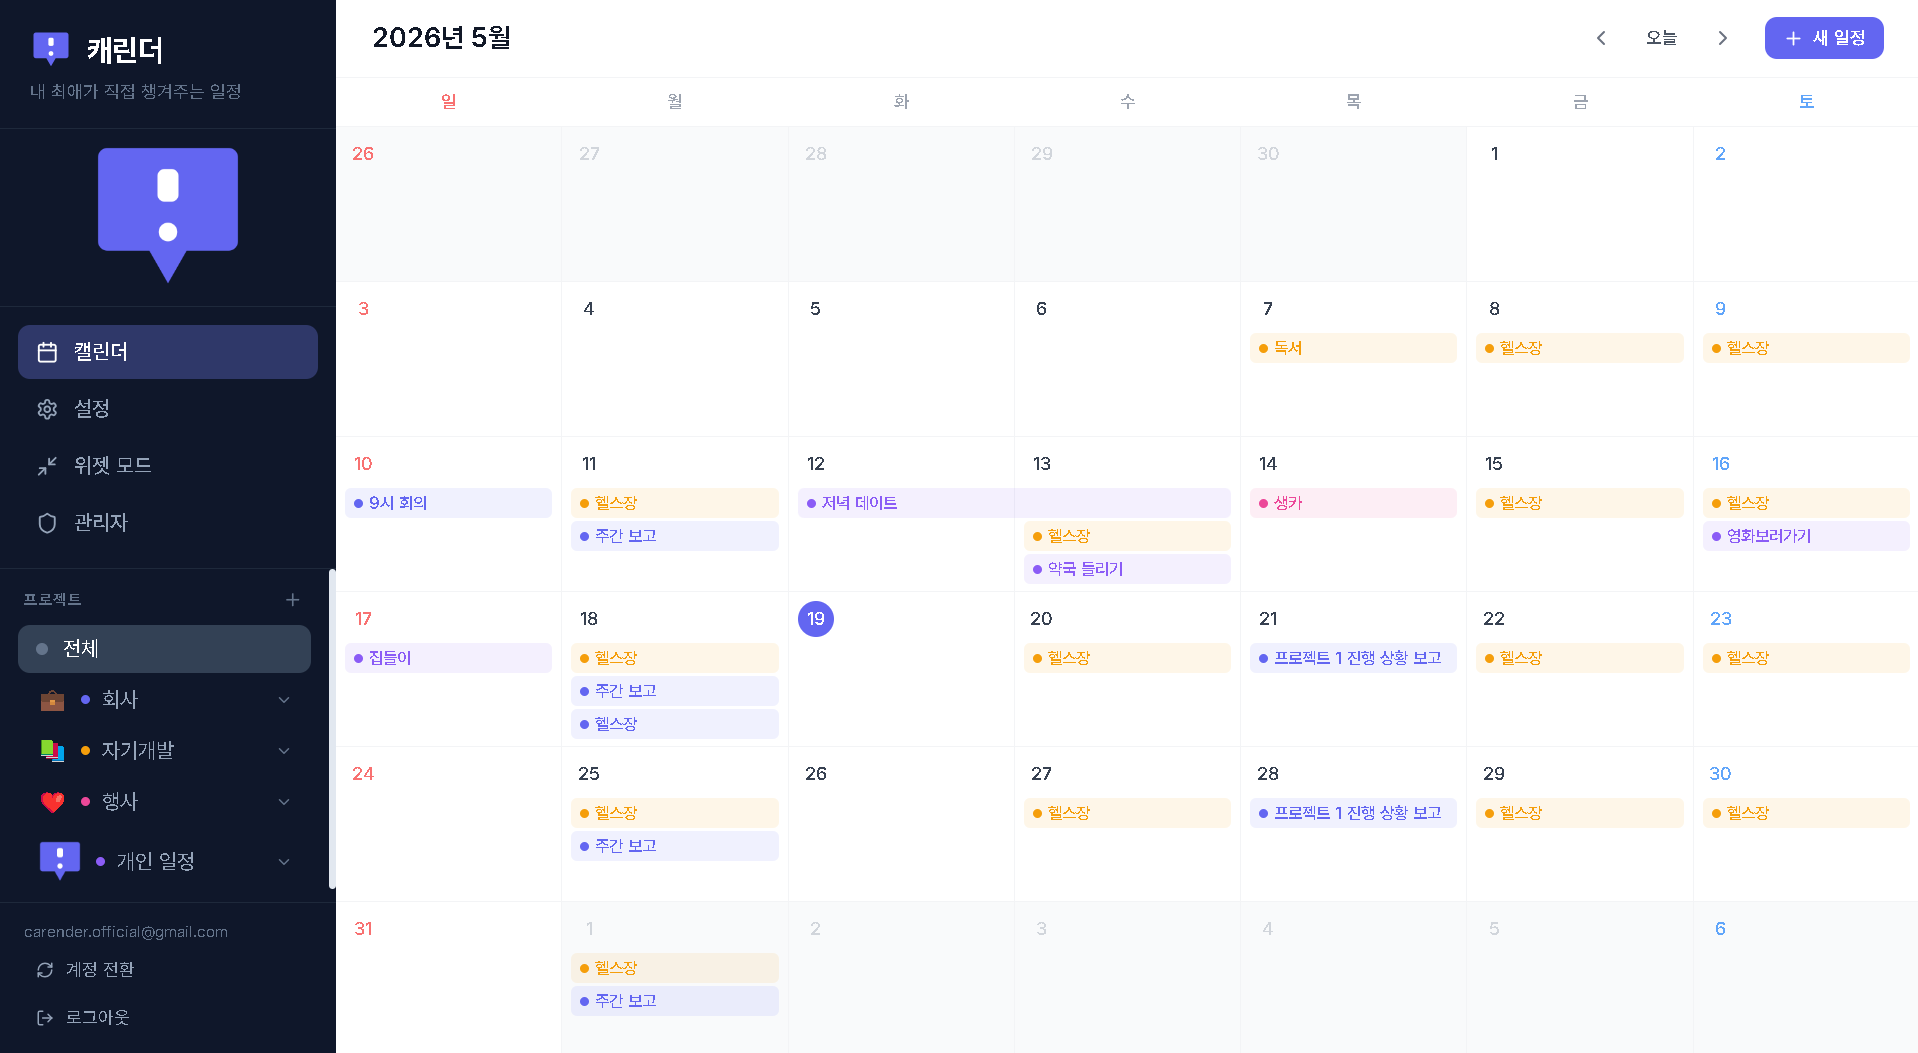
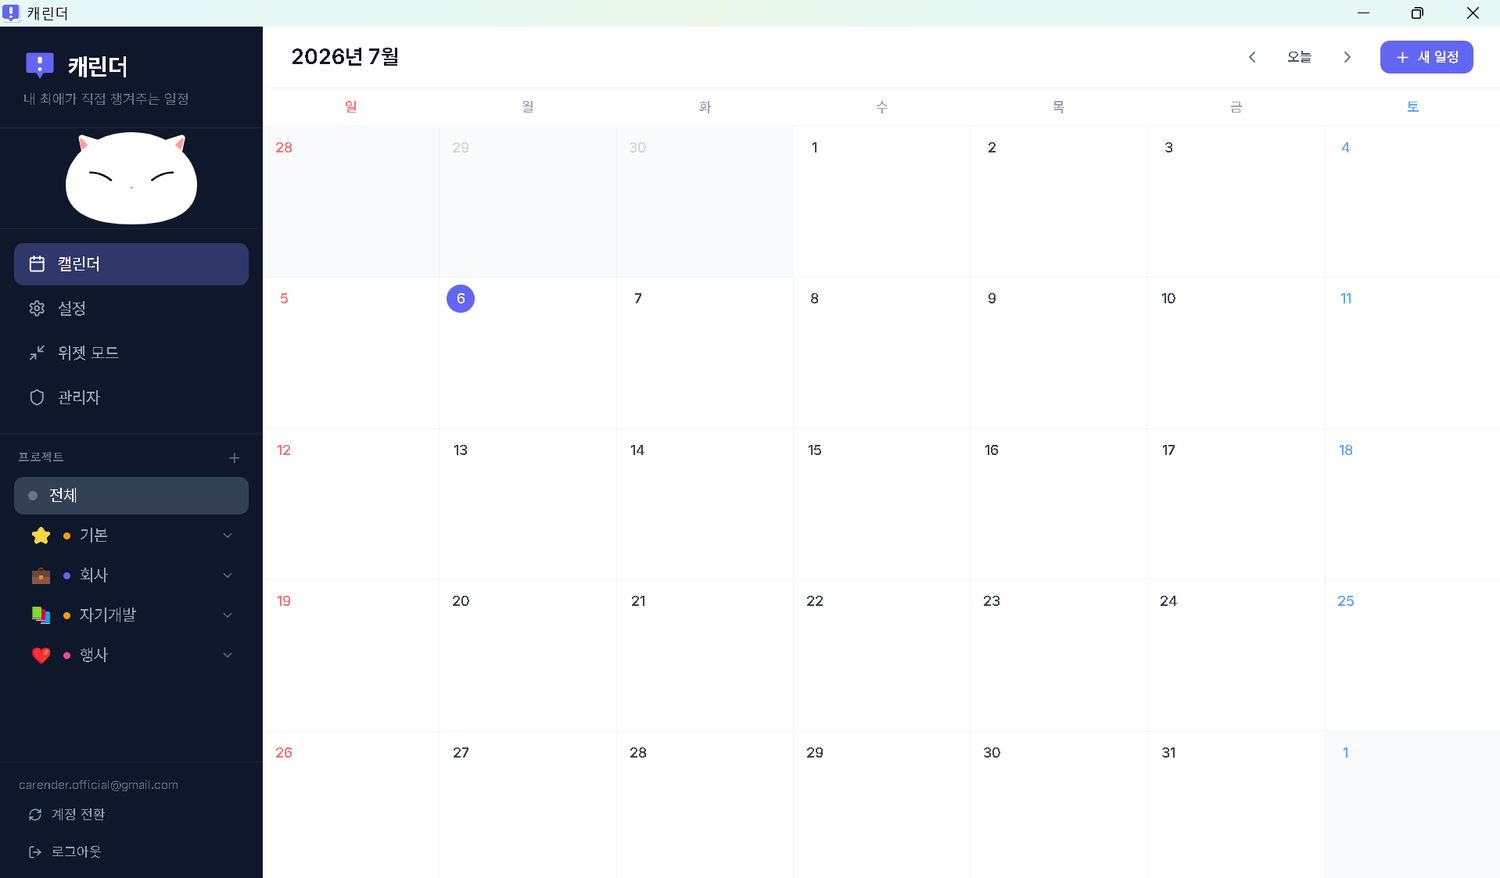
feat: 기능 자세히 보기 섹션 + 실제 스크린샷(이름 제거) 반영

diff --git a/index.html b/index.html
@@ -189,6 +189,103 @@
     </div>
   </section>
 
+  <!-- ===== FEATURE DETAIL ===== -->
+  <section id="features-detail" class="py-20 px-6 bg-white">
+    <div class="max-w-5xl mx-auto">
+      <h2 class="text-2xl sm:text-3xl font-bold text-center text-slate-800 mb-3">기능 자세히 보기</h2>
+      <p class="text-center text-slate-400 mb-16">캐린더가 최애와 함께하는 방법</p>
+
+      <div class="space-y-20 md:space-y-28">
+
+        <!-- 1. 캐릭터 업로드 -->
+        <div class="flex flex-col md:flex-row items-center gap-10 md:gap-14">
+          <div class="md:w-1/2">
+            <img src="images/project.png" alt="SVG 캐릭터 업로드 화면"
+                 class="w-full rounded-2xl screenshot-shadow" loading="lazy" />
+          </div>
+          <div class="md:w-1/2">
+            <span class="inline-block text-xs font-semibold text-emerald-600 bg-emerald-50 border border-emerald-100 px-3 py-1 rounded-full mb-4">모든 플랜</span>
+            <h3 class="text-xl sm:text-2xl font-bold text-slate-800 mb-3">최애 캐릭터를 올리세요</h3>
+            <p class="text-slate-500 leading-relaxed mb-5">SVG 캐릭터 한 장만 올리면 캐린더가 그 캐릭터로 채워져요. 프로젝트마다 다른 아이콘을 지정하고, 위젯과 알림까지 내 최애로 바꿀 수 있어요.</p>
+            <ul class="space-y-2.5 text-sm text-slate-600">
+              <li class="flex items-start gap-2"><span class="text-brand-400 mt-0.5">✓</span>SVG 캐릭터 업로드 — 모든 플랜</li>
+              <li class="flex items-start gap-2"><span class="text-brand-400 mt-0.5">✓</span>프로젝트 아이콘을 내 캐릭터 SVG로 설정 · 움직이는 GIF 캐릭터 — <span class="text-brand-600 font-medium">프리미엄</span></li>
+            </ul>
+          </div>
+        </div>
+
+        <!-- 2. 바탕화면 위젯 -->
+        <div class="flex flex-col md:flex-row-reverse items-center gap-10 md:gap-14">
+          <div class="md:w-1/2">
+            <img src="images/widget.png" alt="바탕화면 위 최애 위젯"
+                 class="w-full rounded-2xl screenshot-shadow" loading="lazy" />
+          </div>
+          <div class="md:w-1/2">
+            <span class="inline-block text-xs font-semibold text-emerald-600 bg-emerald-50 border border-emerald-100 px-3 py-1 rounded-full mb-4">모든 플랜</span>
+            <h3 class="text-xl sm:text-2xl font-bold text-slate-800 mb-3">바탕화면에 최애가 상주해요</h3>
+            <p class="text-slate-500 leading-relaxed mb-5">앱 창을 닫아도 최애 캐릭터가 바탕화면 위에 떠 있어요. 언제나 곁에서 오늘의 일정을 함께 지켜봐 줘요.</p>
+            <ul class="space-y-2.5 text-sm text-slate-600">
+              <li class="flex items-start gap-2"><span class="text-brand-400 mt-0.5">✓</span>항상 위에 표시되는 플로팅 위젯</li>
+              <li class="flex items-start gap-2"><span class="text-brand-400 mt-0.5">✓</span>캐릭터 크기 5단계(XS~XL) 조절 — <span class="text-brand-600 font-medium">프리미엄</span> (무료·스탠다드는 기본 크기)</li>
+            </ul>
+          </div>
+        </div>
+
+        <!-- 3. 말풍선 알림 -->
+        <div class="flex flex-col md:flex-row items-center gap-10 md:gap-14">
+          <div class="md:w-1/2">
+            <img src="images/notify.png" alt="최애 말풍선 일정 알림"
+                 class="w-full rounded-2xl screenshot-shadow" loading="lazy" />
+          </div>
+          <div class="md:w-1/2">
+            <span class="inline-block text-xs font-semibold text-emerald-600 bg-emerald-50 border border-emerald-100 px-3 py-1 rounded-full mb-4">모든 플랜</span>
+            <h3 class="text-xl sm:text-2xl font-bold text-slate-800 mb-3">최애가 말풍선으로 챙겨줘요</h3>
+            <p class="text-slate-500 leading-relaxed mb-5">일정 시각이 되면 최애가 말풍선으로 일정을 알려줘요. 앱 창을 닫아 두어도 아이콘 알림으로 뜨고, 여러 건은 말풍선이 차곡차곡 쌓여요.</p>
+            <ul class="space-y-2.5 text-sm text-slate-600">
+              <li class="flex items-start gap-2"><span class="text-brand-400 mt-0.5">✓</span>위젯을 꺼 두어도 동작하는 아이콘 알림</li>
+              <li class="flex items-start gap-2"><span class="text-brand-400 mt-0.5">✓</span>여러 알림을 한눈에 보는 말풍선 스택</li>
+            </ul>
+          </div>
+        </div>
+
+        <!-- 4. 말풍선 꾸미기 -->
+        <div class="flex flex-col md:flex-row-reverse items-center gap-10 md:gap-14">
+          <div class="md:w-1/2">
+            <img src="images/bubble.png" alt="말풍선 꾸미기 화면"
+                 class="w-full rounded-2xl screenshot-shadow" loading="lazy" />
+          </div>
+          <div class="md:w-1/2">
+            <span class="inline-block text-xs font-semibold text-brand-600 bg-brand-50 border border-brand-100 px-3 py-1 rounded-full mb-4">프리미엄</span>
+            <h3 class="text-xl sm:text-2xl font-bold text-slate-800 mb-3">말풍선을 내 취향대로 꾸며요</h3>
+            <p class="text-slate-500 leading-relaxed mb-5">두 종류의 말풍선에 내 캐릭터 스티커를 올리고, 위치와 크기를 조절해 세상에 하나뿐인 알림을 만들어요.</p>
+            <ul class="space-y-2.5 text-sm text-slate-600">
+              <li class="flex items-start gap-2"><span class="text-brand-500 mt-0.5 font-bold">✓</span>말풍선 2종 · 스티커 배치</li>
+              <li class="flex items-start gap-2"><span class="text-brand-500 mt-0.5 font-bold">✓</span>드래그로 위치 조절 · 크기 조절</li>
+            </ul>
+          </div>
+        </div>
+
+        <!-- 5. 일정 공유 -->
+        <div class="flex flex-col md:flex-row items-center gap-10 md:gap-14">
+          <div class="md:w-1/2">
+            <img src="images/share.png" alt="일정 공유 페이지"
+                 class="w-full rounded-2xl screenshot-shadow" loading="lazy" />
+          </div>
+          <div class="md:w-1/2">
+            <span class="inline-block text-xs font-semibold text-emerald-600 bg-emerald-50 border border-emerald-100 px-3 py-1 rounded-full mb-4">모든 플랜</span>
+            <h3 class="text-xl sm:text-2xl font-bold text-slate-800 mb-3">링크 하나로 일정을 공유해요</h3>
+            <p class="text-slate-500 leading-relaxed mb-5">프로젝트 일정을 웹 링크로 공유하세요. 상대는 로그인 없이 바로 확인하고, 첨부파일과 링크까지 함께 받을 수 있어요.</p>
+            <ul class="space-y-2.5 text-sm text-slate-600">
+              <li class="flex items-start gap-2"><span class="text-brand-400 mt-0.5">✓</span>로그인 없이 열람 가능한 공유 페이지</li>
+              <li class="flex items-start gap-2"><span class="text-brand-400 mt-0.5">✓</span>공유 개수·용량·유효기간은 플랜별 차등 (무료 15개·100MB·7일 → 프리미엄 무제한·2GB·30일)</li>
+            </ul>
+          </div>
+        </div>
+
+      </div>
+    </div>
+  </section>
+
   <!-- ===== PLANS ===== -->
   <section class="py-20 px-6 bg-white">
     <div class="max-w-5xl mx-auto">
